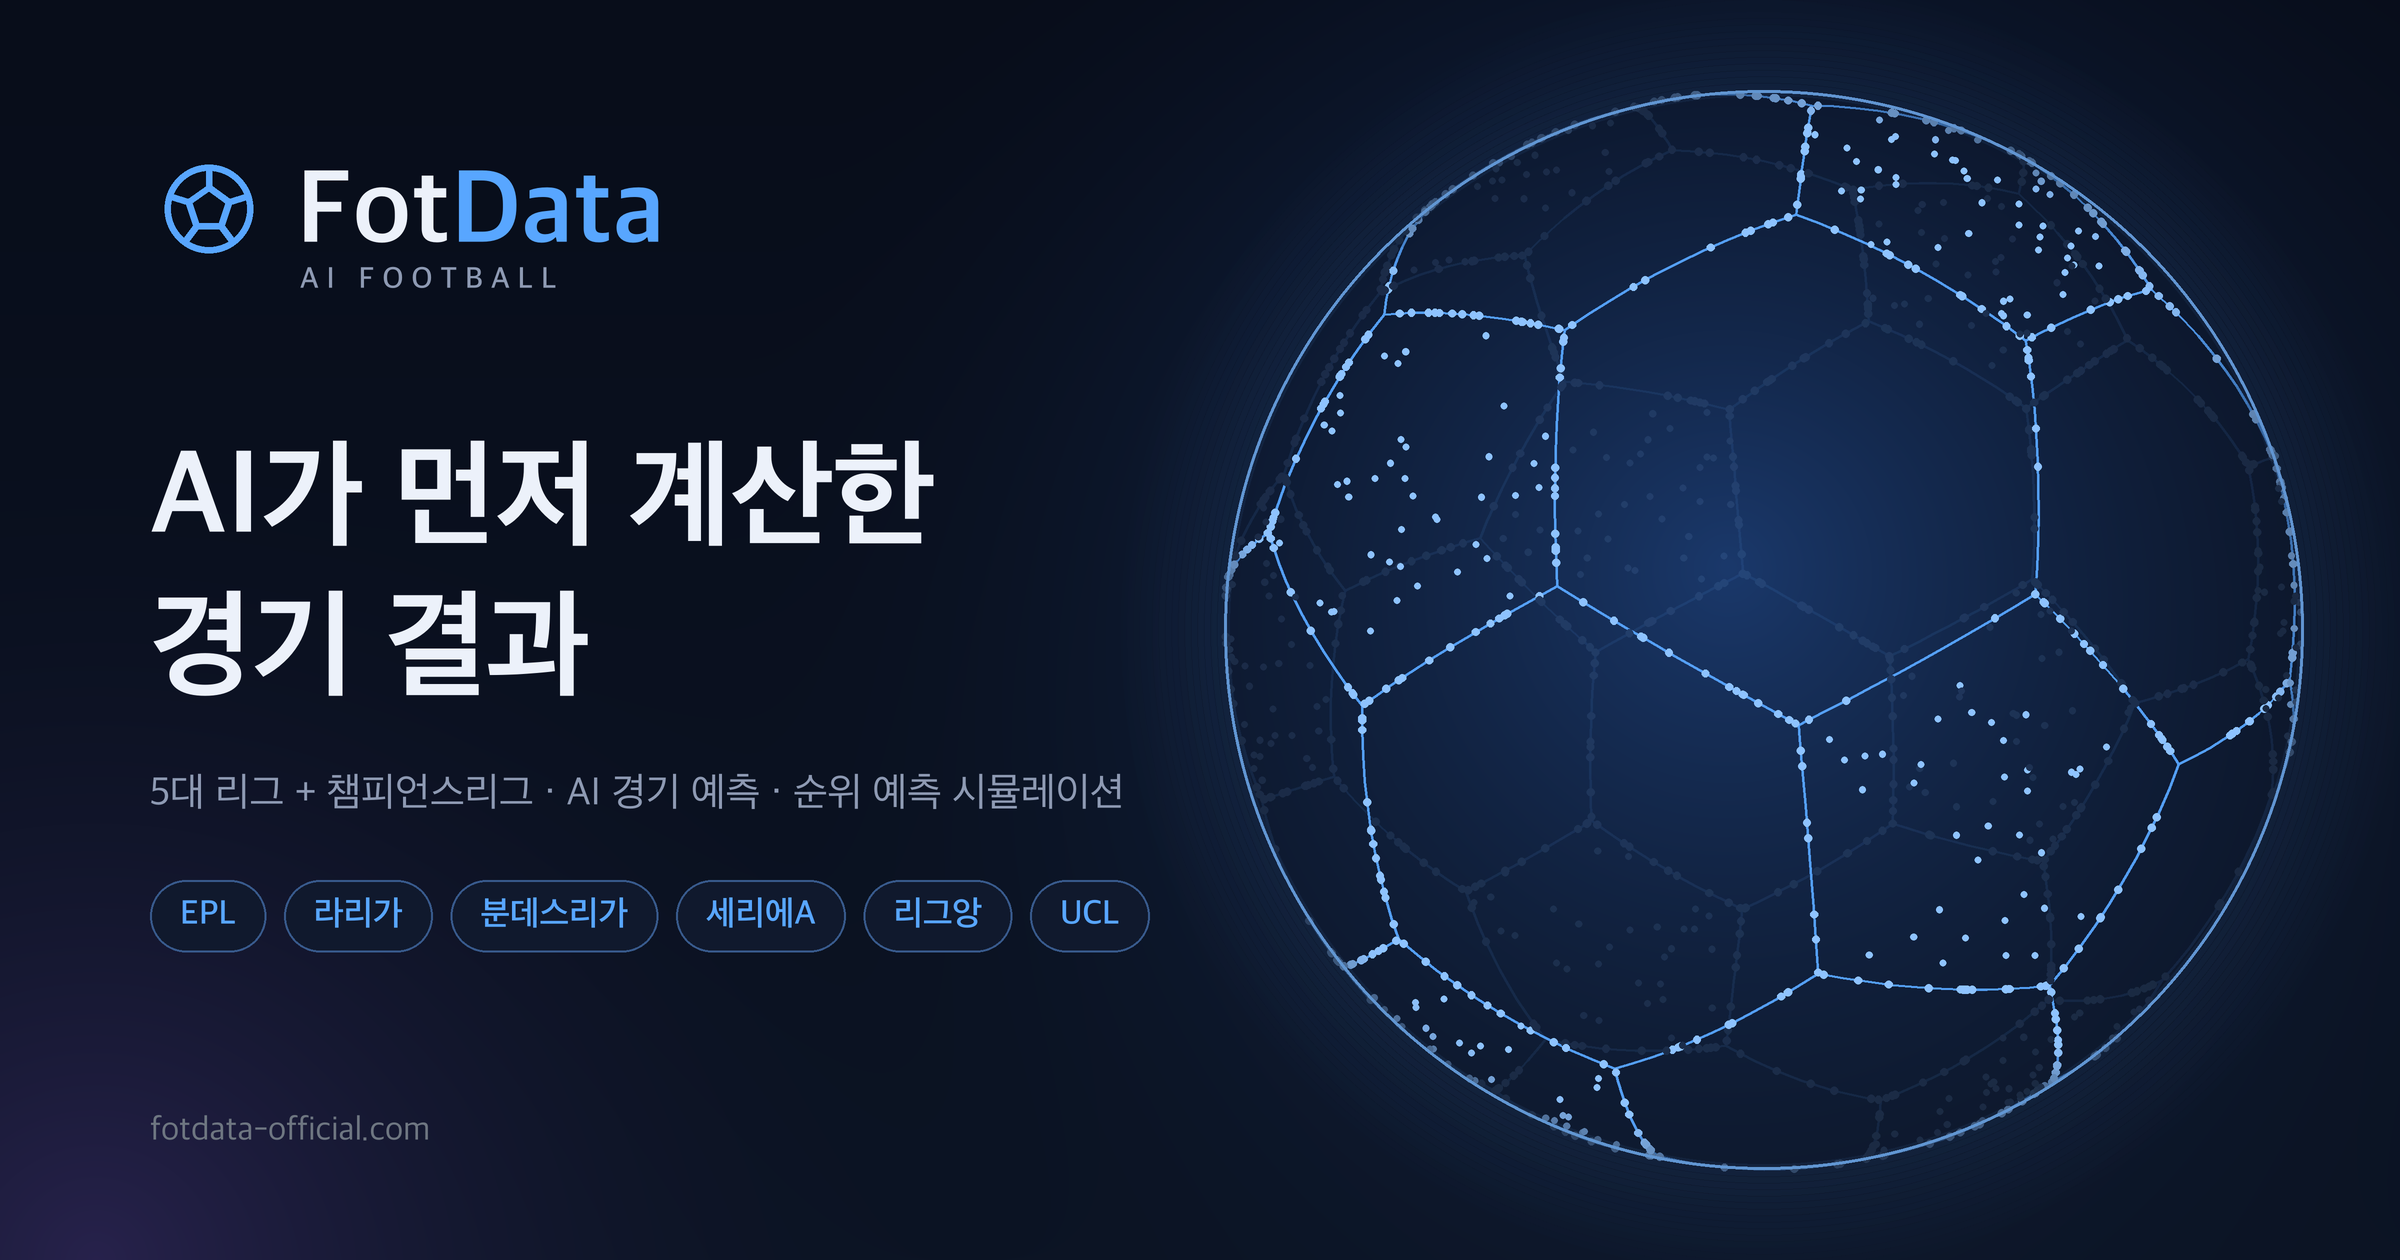
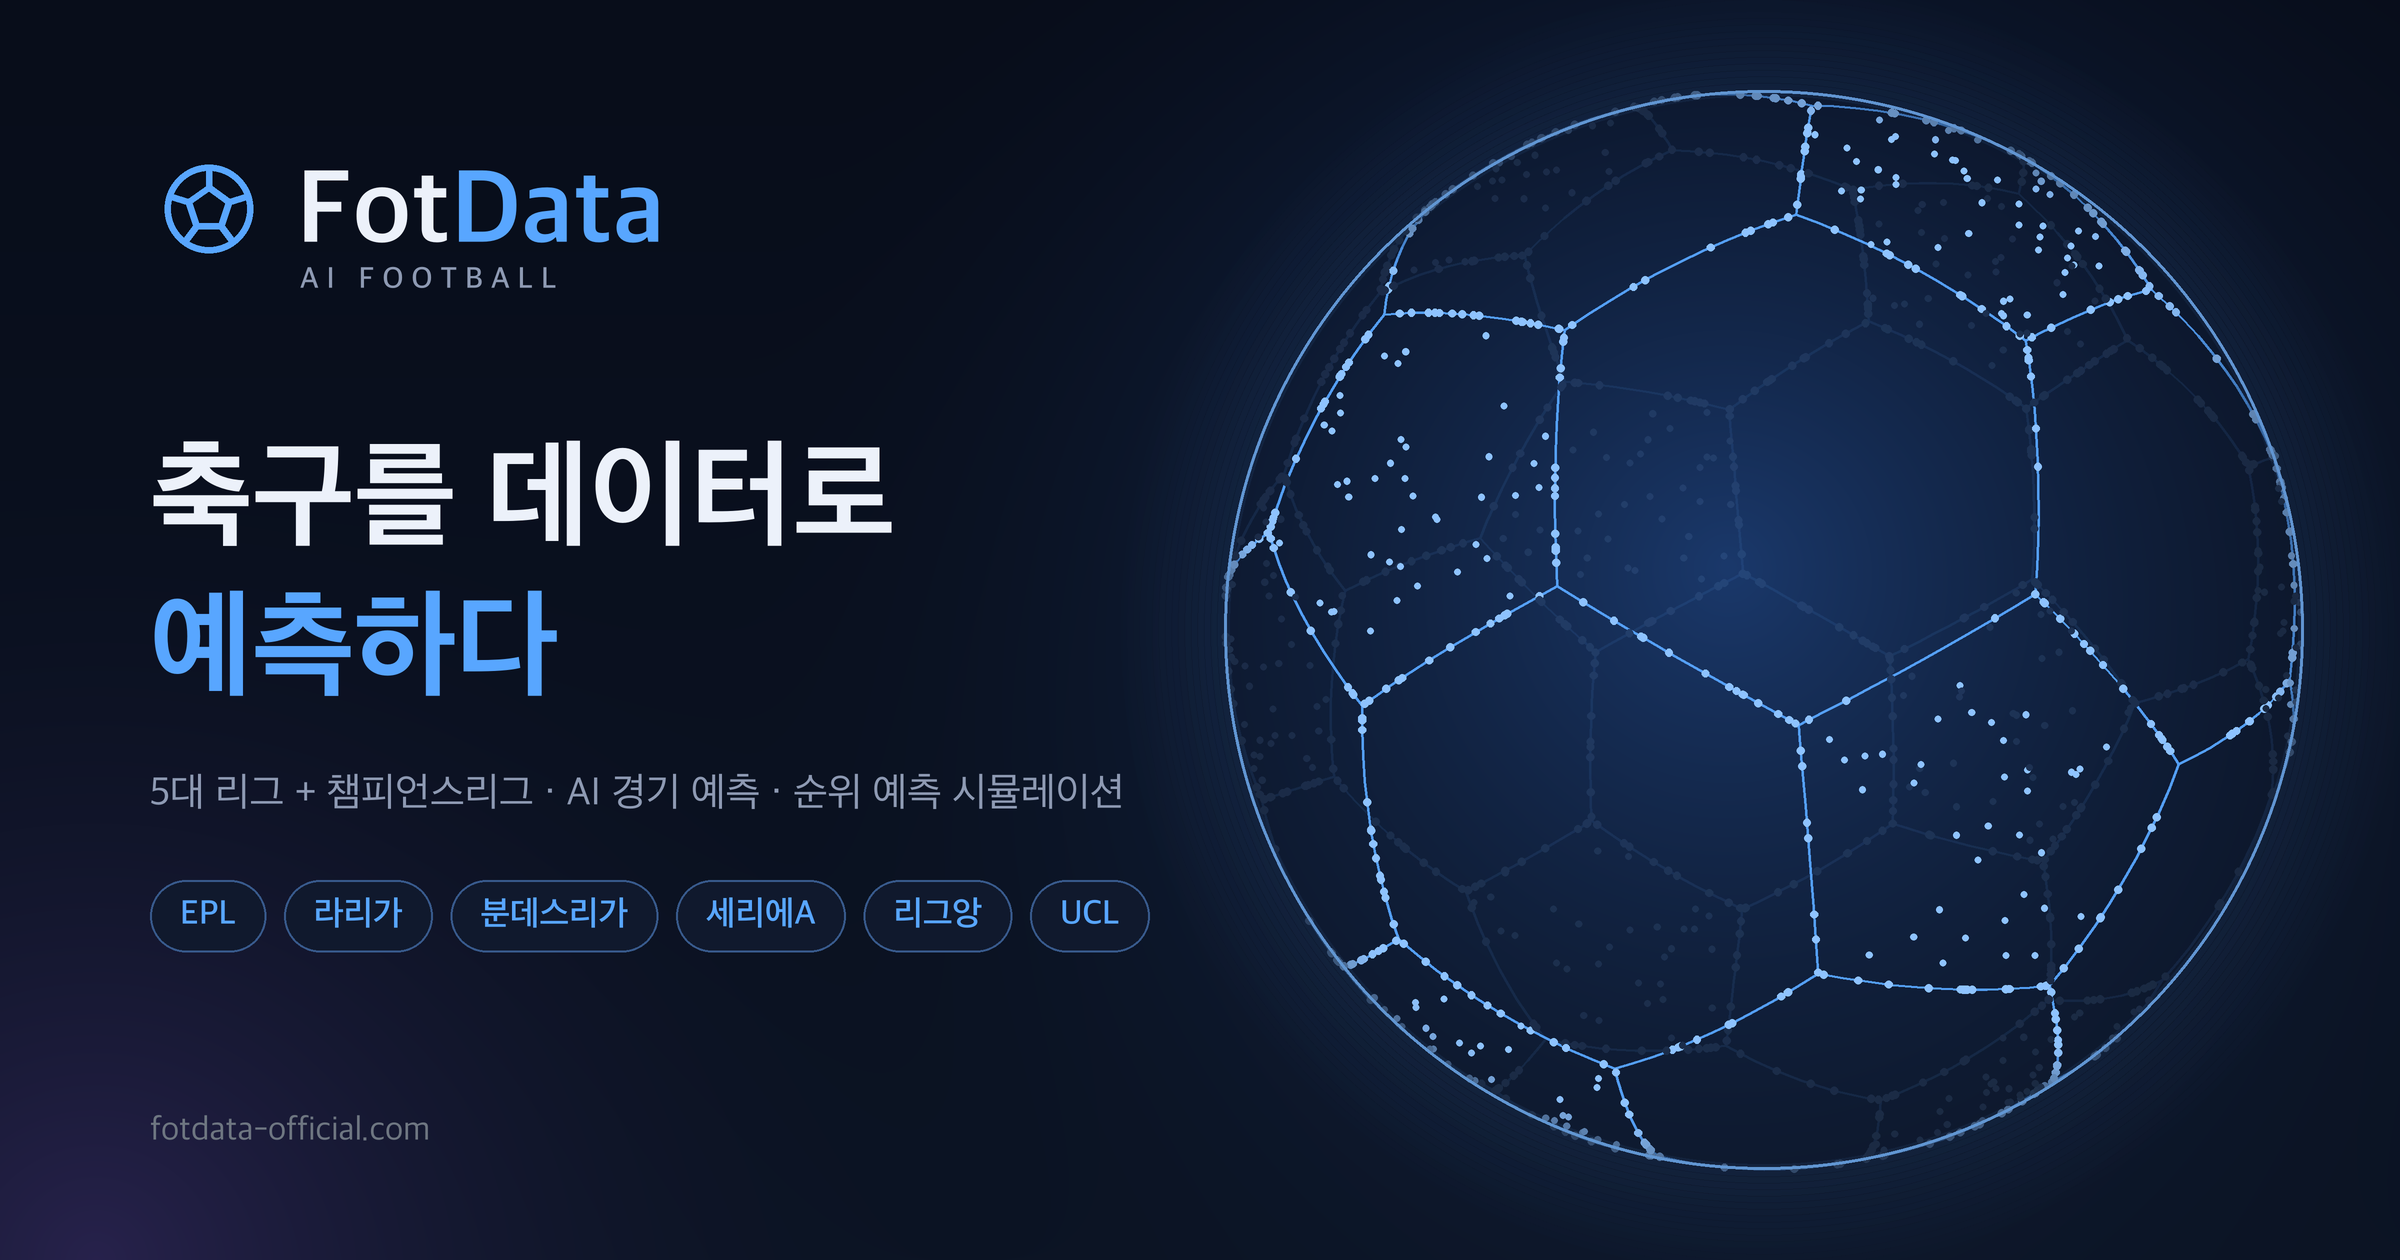
fix: 링크 공유 썸네일 헤드라인도 원래 문구로 — "축구를 데이터로 / 예측하다"(둘째 줄 파랑), og-image ?v=6(카톡·페북 캐시)

Changed region(s): [[0.0625, 0.3405, 0.4062, 0.4333], [0.0625, 0.4643, 0.25, 0.5571]]

diff --git a/FotData.html b/FotData.html
@@ -18,13 +18,13 @@
   <meta name="description" content="5대 리그+UCL 순위·일정, AI 경기 예측, 최근 4시즌 맞대결 기록. 데이터로 보는 축구 인사이트를 무료로.">
   <meta property="og:title" content="FotData - AI 축구 분석 플랫폼">
   <meta property="og:description" content="5대 리그+UCL 순위·일정, AI 경기 예측, 최근 4시즌 맞대결 기록. 데이터로 보는 축구 인사이트를 무료로.">
-  <meta property="og:image" content="https://www.fotdata-official.com/og-image.png?v=5">
+  <meta property="og:image" content="https://www.fotdata-official.com/og-image.png?v=6">
   <meta property="og:image:width" content="2400">
   <meta property="og:image:height" content="1260">
   <meta property="og:image:type" content="image/png">
   <meta property="og:image:alt" content="FotData — 축구를 데이터로 예측하다">
   <meta property="og:site_name" content="FotData">
-  <meta name="twitter:image" content="https://www.fotdata-official.com/og-image.png?v=5">
+  <meta name="twitter:image" content="https://www.fotdata-official.com/og-image.png?v=6">
   <meta property="og:url" content="https://www.fotdata-official.com/app">
   <meta property="og:type" content="website">
   <meta name="twitter:card" content="summary_large_image">

diff --git a/index.html b/index.html
@@ -156,13 +156,13 @@
   <meta name="description" content="5대 리그+UCL 순위·일정, AI 경기 예측, 최근 4시즌 맞대결 기록. 데이터로 보는 축구 인사이트를 무료로.">
   <meta property="og:title" content="FotData - AI 축구 분석 플랫폼">
   <meta property="og:description" content="5대 리그+UCL 순위·일정, AI 경기 예측, 최근 4시즌 맞대결 기록. 데이터로 보는 축구 인사이트를 무료로.">
-  <meta property="og:image" content="https://www.fotdata-official.com/og-image.png?v=5">
+  <meta property="og:image" content="https://www.fotdata-official.com/og-image.png?v=6">
   <meta property="og:image:width" content="2400">
   <meta property="og:image:height" content="1260">
   <meta property="og:image:type" content="image/png">
   <meta property="og:image:alt" content="FotData — 축구를 데이터로 예측하다">
   <meta property="og:site_name" content="FotData">
-  <meta name="twitter:image" content="https://www.fotdata-official.com/og-image.png?v=5">
+  <meta name="twitter:image" content="https://www.fotdata-official.com/og-image.png?v=6">
   <meta property="og:url" content="https://www.fotdata-official.com">
   <meta property="og:type" content="website">
   <meta name="twitter:card" content="summary_large_image">

diff --git a/landing.html b/landing.html
@@ -156,13 +156,13 @@
   <meta name="description" content="5대 리그+UCL 순위·일정, AI 경기 예측, 최근 4시즌 맞대결 기록. 데이터로 보는 축구 인사이트를 무료로.">
   <meta property="og:title" content="FotData - AI 축구 분석 플랫폼">
   <meta property="og:description" content="5대 리그+UCL 순위·일정, AI 경기 예측, 최근 4시즌 맞대결 기록. 데이터로 보는 축구 인사이트를 무료로.">
-  <meta property="og:image" content="https://www.fotdata-official.com/og-image.png?v=5">
+  <meta property="og:image" content="https://www.fotdata-official.com/og-image.png?v=6">
   <meta property="og:image:width" content="2400">
   <meta property="og:image:height" content="1260">
   <meta property="og:image:type" content="image/png">
   <meta property="og:image:alt" content="FotData — 축구를 데이터로 예측하다">
   <meta property="og:site_name" content="FotData">
-  <meta name="twitter:image" content="https://www.fotdata-official.com/og-image.png?v=5">
+  <meta name="twitter:image" content="https://www.fotdata-official.com/og-image.png?v=6">
   <meta property="og:url" content="https://www.fotdata-official.com">
   <meta property="og:type" content="website">
   <meta name="twitter:card" content="summary_large_image">

diff --git a/main.py b/main.py
@@ -1874,7 +1874,7 @@ def share_match_page(slug: str):
         desc += " — FotData AI 축구 경기 예측"
         image = f"{SITE_URL}/og/m/{d['slug']}.jpg?v={_data_version()}"
     else:
-        title, desc, image = "FotData — AI 축구 경기 예측", "5대 리그 + 챔피언스리그 AI 경기 예측", f"{SITE_URL}/og-image.png?v=5"
+        title, desc, image = "FotData — AI 축구 경기 예측", "5대 리그 + 챔피언스리그 AI 경기 예측", f"{SITE_URL}/og-image.png?v=6"
     e = lambda s: escape(s, quote=True)
     html = f"""<!doctype html>
 <html lang="ko"><head><meta charset="utf-8">
@@ -1909,7 +1909,7 @@ def share_match_image(name: str):
     slug = re.sub(r"\.(jpe?g|png)$", "", name.lower())
     d = _share_data(slug)
     if not d:
-        return Response(status_code=302, headers={"Location": f"{SITE_URL}/og-image.png?v=5"})
+        return Response(status_code=302, headers={"Location": f"{SITE_URL}/og-image.png?v=6"})
     return Response(_share_jpg(d["home"], d["away"]), media_type="image/jpeg",
                     headers={"Cache-Control": "public, max-age=86400, s-maxage=43200"})
 

diff --git a/generate_og_image.py b/generate_og_image.py
@@ -81,9 +81,9 @@ def main():
     d.text((L + 150 * S, 262 * S), 'A I   F O O T B A L L', font=font(30, SEMI), fill=MUTED)
     # 헤드라인
     f_h = font(118, BOLD)
-    # 헤드라인은 한 색(2026-10-05 — 한 줄만 파랗게 칠하는 강조는 흔한 기본형이라 뺌), 랜딩 첫 화면 문구와 같게
-    d.text((L, 430 * S), 'AI가 먼저 계산한', font=f_h, fill=TEXT)
-    d.text((L, 580 * S), '경기 결과', font=f_h, fill=TEXT)
+    # 랜딩 첫 화면 문구와 같게(2026-10-05 한때 "AI가 먼저 계산한 경기 결과"였다가 사용자 결정으로 원래 문구로)
+    d.text((L, 430 * S), '축구를 데이터로', font=f_h, fill=TEXT)
+    d.text((L, 580 * S), '예측하다', font=f_h, fill=BLUE)
     d.text((L, 770 * S), '5대 리그 + 챔피언스리그 · AI 경기 예측 · 순위 예측 시뮬레이션', font=font(40, REG), fill=MUTED)
     # 리그 태그
     x, y, f_p = L, 880 * S, font(34, SEMI)

diff --git a/CLAUDE.md b/CLAUDE.md
@@ -404,7 +404,7 @@ cp landing.html index.html
 - 확인: 375·768·1280px 전 탭 + 팀 정보 7개 탭·미리보기·트랙레코드 가로 넘침 0·JS 에러 0, 남은 잘림은 이적 기록의 긴 구단명(원래 말줄임)뿐. 정리 후 실측: 글자 크기 13종(예외 9.5~10.5 포함), 둥글기 6종, Arial 0.
 
 ### 5.28 디자인 방향 "새벽의 전광판" — 야간 잔디 테마 (2026-10-05, 프론트엔드 디자인 플러그인 지침으로 점검 후 사용자 결정)
-- **⚠ 최종 색(같은 날 결정 변경)**: 야간 잔디(초록빛 회색 바탕)를 하루 써 보니 **파란 브랜드(로고·홈 파랑·버튼)와 온도가 달라 부조화**(사용자 판단 — "우리 고유 테마를 푸른색으로 정했는데 초록이 들어오니 부조화"). 실제 앱에 색만 바꾼 4안(지금·A 밤하늘 남색·B 무채색 숯·C 야간 잔디+노랑 포인트)을 폰 화면으로 찍어 비교(`promo/palette/compare-*.jpg`, 크롬 DevTools 프로토콜로 375×812 캡처 — 헤드리스 `--screenshot`은 1초 타이머 때문에 안 끝나서 못 씀) → **A 밤하늘 남색 채택**: #0a1020(바탕)·#111a2e(카드)·#18233a(칸)·#26334d(테두리)·#ecf1fa(글자)·#c5cedf·#8e9ab3(흐린 글자)·#7c88a1·#475470. 예전 GitHub 색(#0d1117 등)과 **색상·밝기는 거의 같고 채도만 약 2배**(파란 로고와 한 몸으로 보이게). 즉 "GitHub 색과 다르게"보다 **브랜드 파랑과의 조화를 우선**한 결정 — 개성은 색이 아니라 전광판 숫자·경기장 선·파란 공 빛으로. 아래 "색" 줄의 야간 잔디 값은 지나간 단계(파일엔 A 값만 남음). 전광판 노랑은 쓰지 않음(나중에 진행 중 경기 표시에만 아껴 쓰는 안은 열어 둠). og-image `?v=5`.
+- **⚠ 최종 색(같은 날 결정 변경)**: 야간 잔디(초록빛 회색 바탕)를 하루 써 보니 **파란 브랜드(로고·홈 파랑·버튼)와 온도가 달라 부조화**(사용자 판단 — "우리 고유 테마를 푸른색으로 정했는데 초록이 들어오니 부조화"). 실제 앱에 색만 바꾼 4안(지금·A 밤하늘 남색·B 무채색 숯·C 야간 잔디+노랑 포인트)을 폰 화면으로 찍어 비교(`promo/palette/compare-*.jpg`, 크롬 DevTools 프로토콜로 375×812 캡처 — 헤드리스 `--screenshot`은 1초 타이머 때문에 안 끝나서 못 씀) → **A 밤하늘 남색 채택**: #0a1020(바탕)·#111a2e(카드)·#18233a(칸)·#26334d(테두리)·#ecf1fa(글자)·#c5cedf·#8e9ab3(흐린 글자)·#7c88a1·#475470. 예전 GitHub 색(#0d1117 등)과 **색상·밝기는 거의 같고 채도만 약 2배**(파란 로고와 한 몸으로 보이게). 즉 "GitHub 색과 다르게"보다 **브랜드 파랑과의 조화를 우선**한 결정 — 개성은 색이 아니라 전광판 숫자·경기장 선·파란 공 빛으로. 아래 "색" 줄의 야간 잔디 값은 지나간 단계(파일엔 A 값만 남음). 전광판 노랑은 쓰지 않음(나중에 진행 중 경기 표시에만 아껴 쓰는 안은 열어 둠). og-image `?v=6`(헤드라인 "축구를 데이터로 예측하다"로 되돌림).
 - **왜**: 플러그인 점검에서 "흔한 기본값" 신호가 여럿 — 색이 **GitHub 다크 테마와 똑같음**(#0d1117·#161b22·#30363d·#58a6ff·#8b949e), 같은 유리 카드 반복, 히어로가 큰 숫자 줄(가장 흔한 기본형), 헤드라인 한 줄만 파랗게, 대문자 라벨, 버튼 끝 →, Inter(한글 없음 → 기기마다 다른 한글 글꼴). 사용자는 한국 해외축구 팬이고 경기 대부분이 밤 9시~새벽 4시라 "야간 조명 아래 전광판"을 성격으로 잡음.
 - **색**: 바탕·카드·테두리·글자 회색만 초록빛 야간 경기장 톤으로 — #0d1117→#0e1512, #161b22→#16201b, #21262d→#1e2a24, #30363d→#2c3a33, #e6edf3→#eef2ea, #c9d1d9→#cbd3c8, #8b949e→#8f9c92, #7d8590→#7f8c82, #484f58→#4a564e(+ 같은 값의 rgba). **파랑 #58a6ff·주황 #f0883e·초록·빨강·금색은 그대로**(로고·아이콘·3D 공·공유 이미지와 연결 — 파랑도 새 바탕에서 AA 통과). 대비 실측: 본문 14.7·흐린 글자 4.8(카드 위) 등 전부 AA. 적용 파일: FotData.html·landing.html(=index.html)·legal.css·404·정책 페이지·manifest·share_card.py·generate_og_image.py·generate_promo.py(그림자 배경). 변환 스크립트는 hex·rgb 세 값 모두 바꿈.
 - **글꼴**: 본문·화면 **Pretendard Variable**(jsdelivr 동적 서브셋, OFL — 한글·영문 한 글꼴), 숫자 전용 **Barlow Condensed** 600/700(Google Fonts) — 확률·스코어·카운트다운·큰 지표만(`--font-num`, 앱 `.prob-value .sp-pct .tc-pct .st-pts .ct-cell .ct-pts .mp-score .h2h-num .sb-val b .bigmatch-unit .num …`, 랜딩 `.stat-num .story-counter .mock-bar-val …`). 둘 다 비동기 로드, 캔버스 공유 이미지도 Pretendard 우선. 대문자 변환(`text-transform: uppercase`) 15곳 제거.
